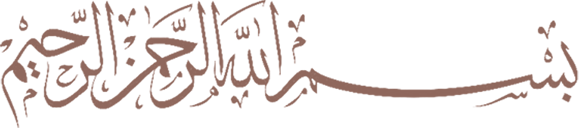
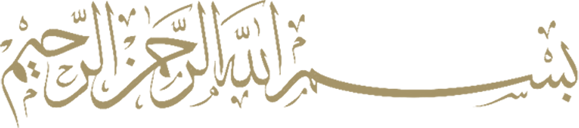
update 4

diff --git a/index.html b/index.html
@@ -69,8 +69,17 @@
     <section id="home" class="home w-100 h-100 text-center d-flex justify-content-center align-items-center">
       <div class="container">
 
-        <div class="row justify-content-center">
+        <div class="row justify-content-center my-5">
+          <div class="col-md-12">
+            <div class="simply-countdown"></div>
+          </div>
+          <div class="col-md-12">
+            <p>Menuju hari resepsi</p>
+          </div>
+        </div>
 
+        <div class="row justify-content-center">
+          
           <div class="col-md-8 text-center">
             <!-- <h2>Assamu’alaikum Wr. Wb.</h2> -->
             
@@ -151,6 +160,7 @@
              <p class="alamat">
               Dengan memohon Rahmad dan Ridho Allah SWT, kami bermaksud mengadakan resepsi pernikahan putri dan putra kami yang Insya Allah akan diselenggarakan pada:
              </p>
+             <br>
              <div class="card text-center bg-transparent">
               <div class="card-header">
                 <div class="row justify-content-center">
@@ -174,7 +184,7 @@
                     <p>
                       Sanggrahan, Wedomartani, Kec. Ngemplak, Kabupaten Sleman, Daerah Istimewa Yogyakarta 55584
                    </p>
-                   <a href="https://maps.app.goo.gl/jjqd51BHXH2yLbBe8" target="_blank" class="btn btn-light btn-sm my-3">Klik untuk Membuka Peta</a>
+                   <a href="https://maps.app.goo.gl/jjqd51BHXH2yLbBe8" target="_blank" class="btn btn-light btn-sm my-3">Buka Peta di Google Maps</a>
                   </div>
                   
                 </div>

diff --git a/style.css b/style.css
@@ -36,25 +36,30 @@ body {
 .hero h1 {
     font-family: "Tangerine", cursive;
     font-size: 5rem;
-    color: #a59468;
+    color: var(--bg);
     font-weight: 600;
 }
 .hero h4 {
     font-size: 1.6rem;
 }
+.hero h5 {
+    /* font-size: 1.6rem; */
+    color: var(--bg);
+}
 
 .hero p {
     font-size: 1rem;
-}
-
-.hero a {
-    color: white;
-    background-color: var(--emas);
+    color: var(--bg);
 }
 
 .hero a:hover {
+    color: var(--bg);
+    background-color: var(--emas);
+}
+
+.hero a {
     color: var(--emas);
-    background-color: white;
+    background-color: var(--bg);
 }
 
 .hero .kepada {
@@ -167,13 +172,17 @@ body {
 
 .info h4 {
     /* color: var(--bg); */
-    /* font-size: 1.1rem; */
+    font-size: 1.4rem;
     font-weight: 500;
+}
+
+.info p {
+    font-size: 1rem;
 }
 
 .info .alamat {
     color: var(--bg);
-    font-size: 1.1rem !important;
+    font-size: 1rem !important;
 }
 
 .info .card {
